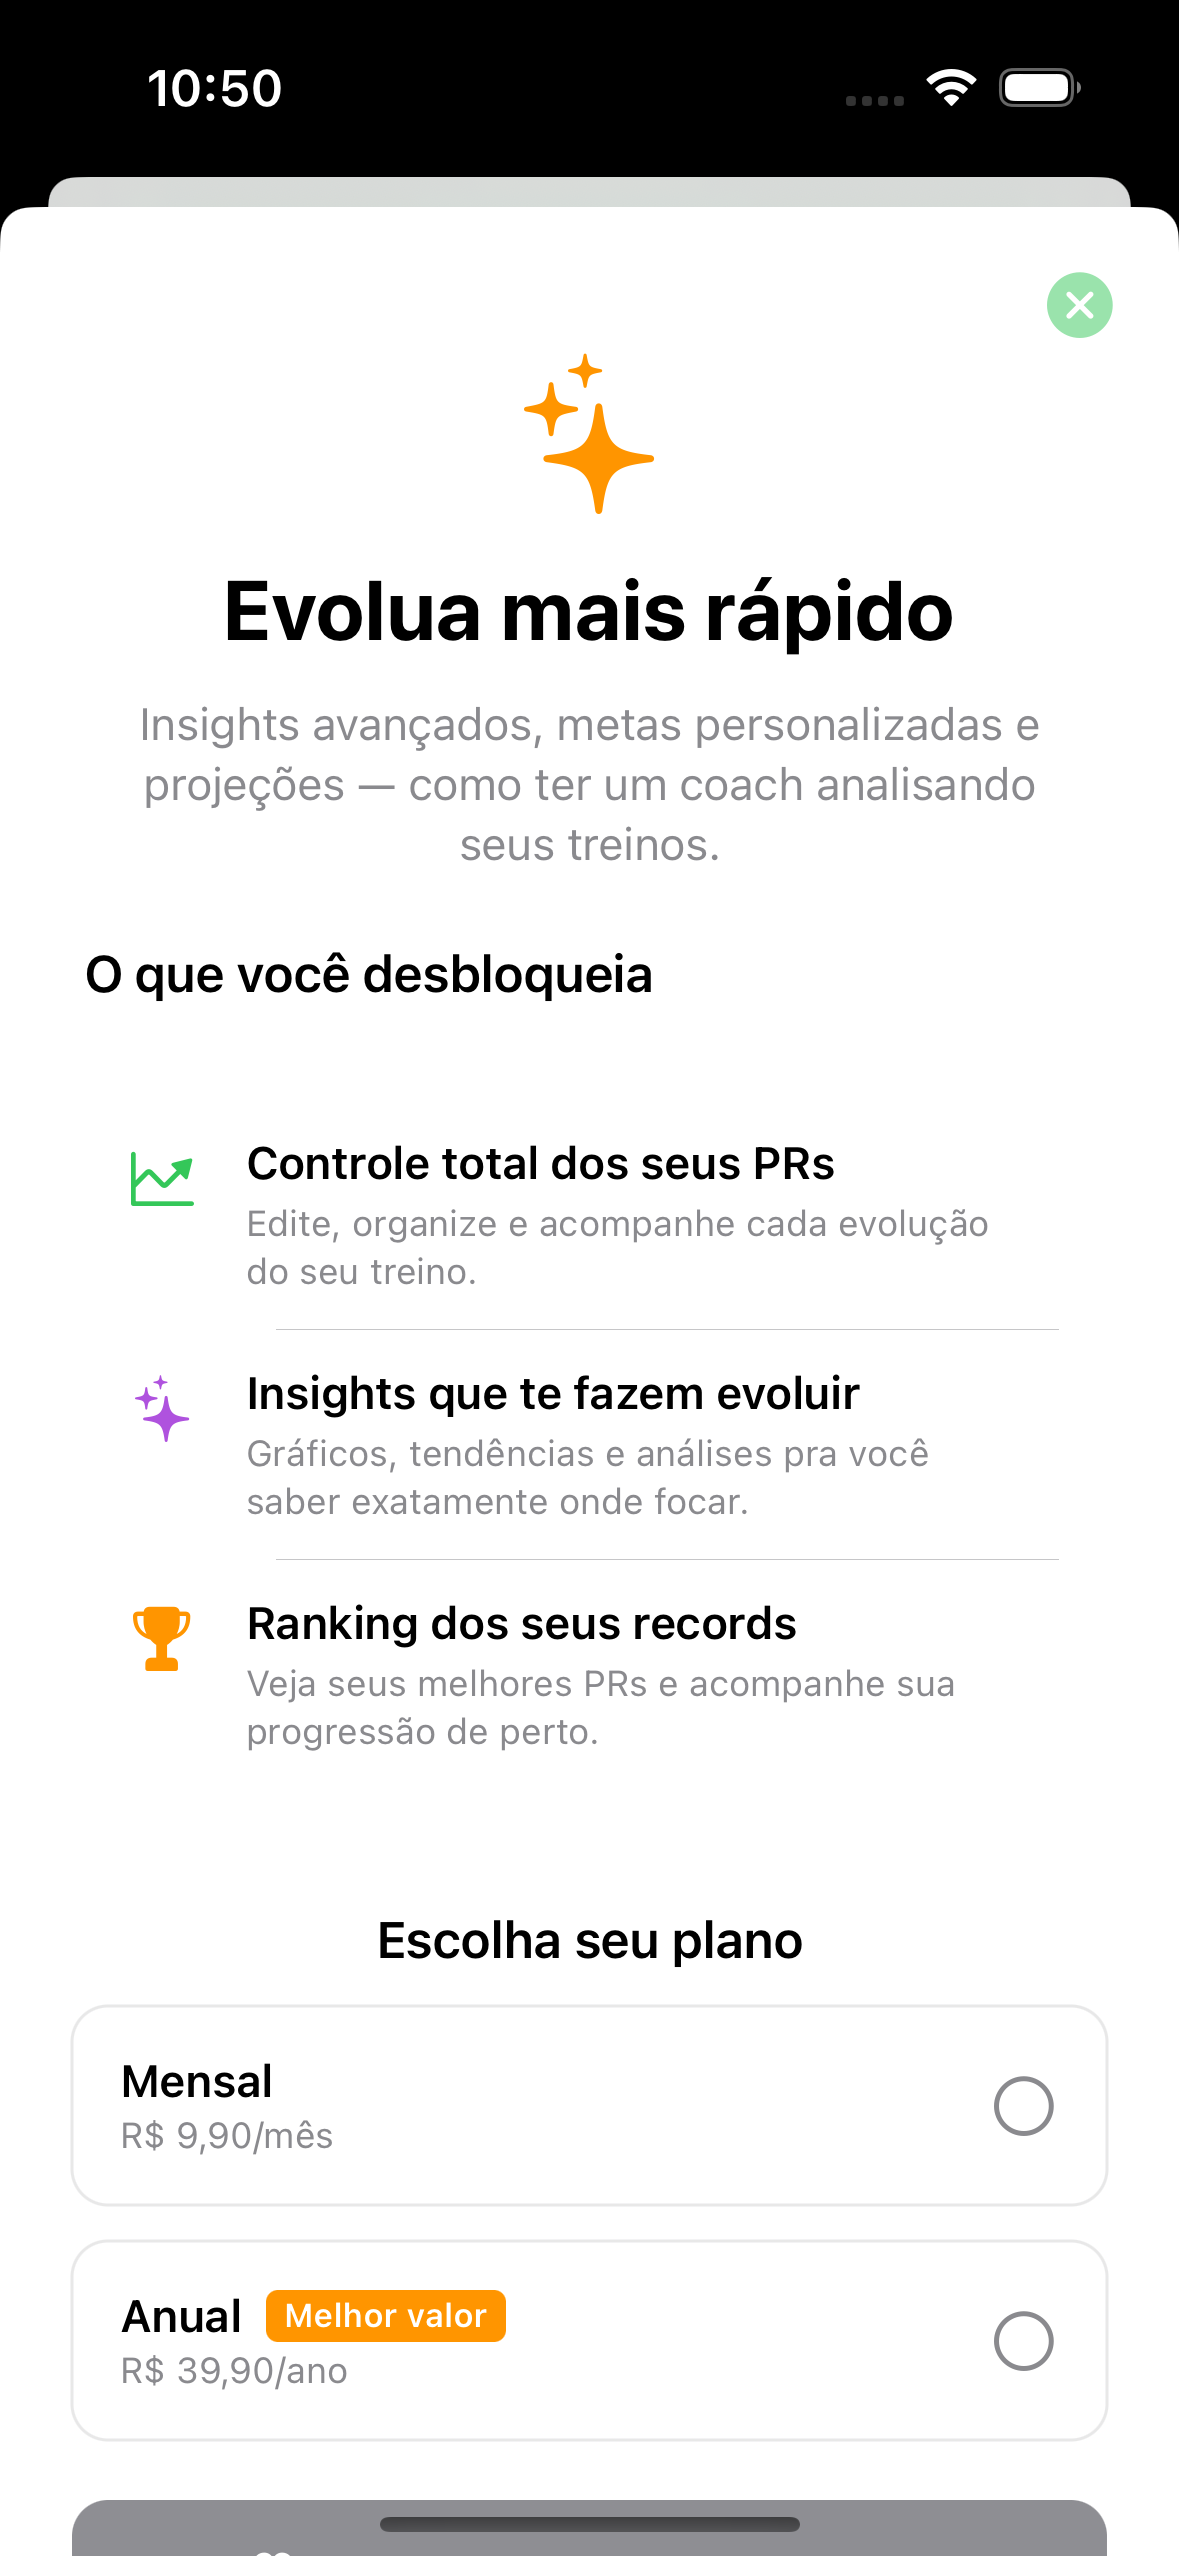
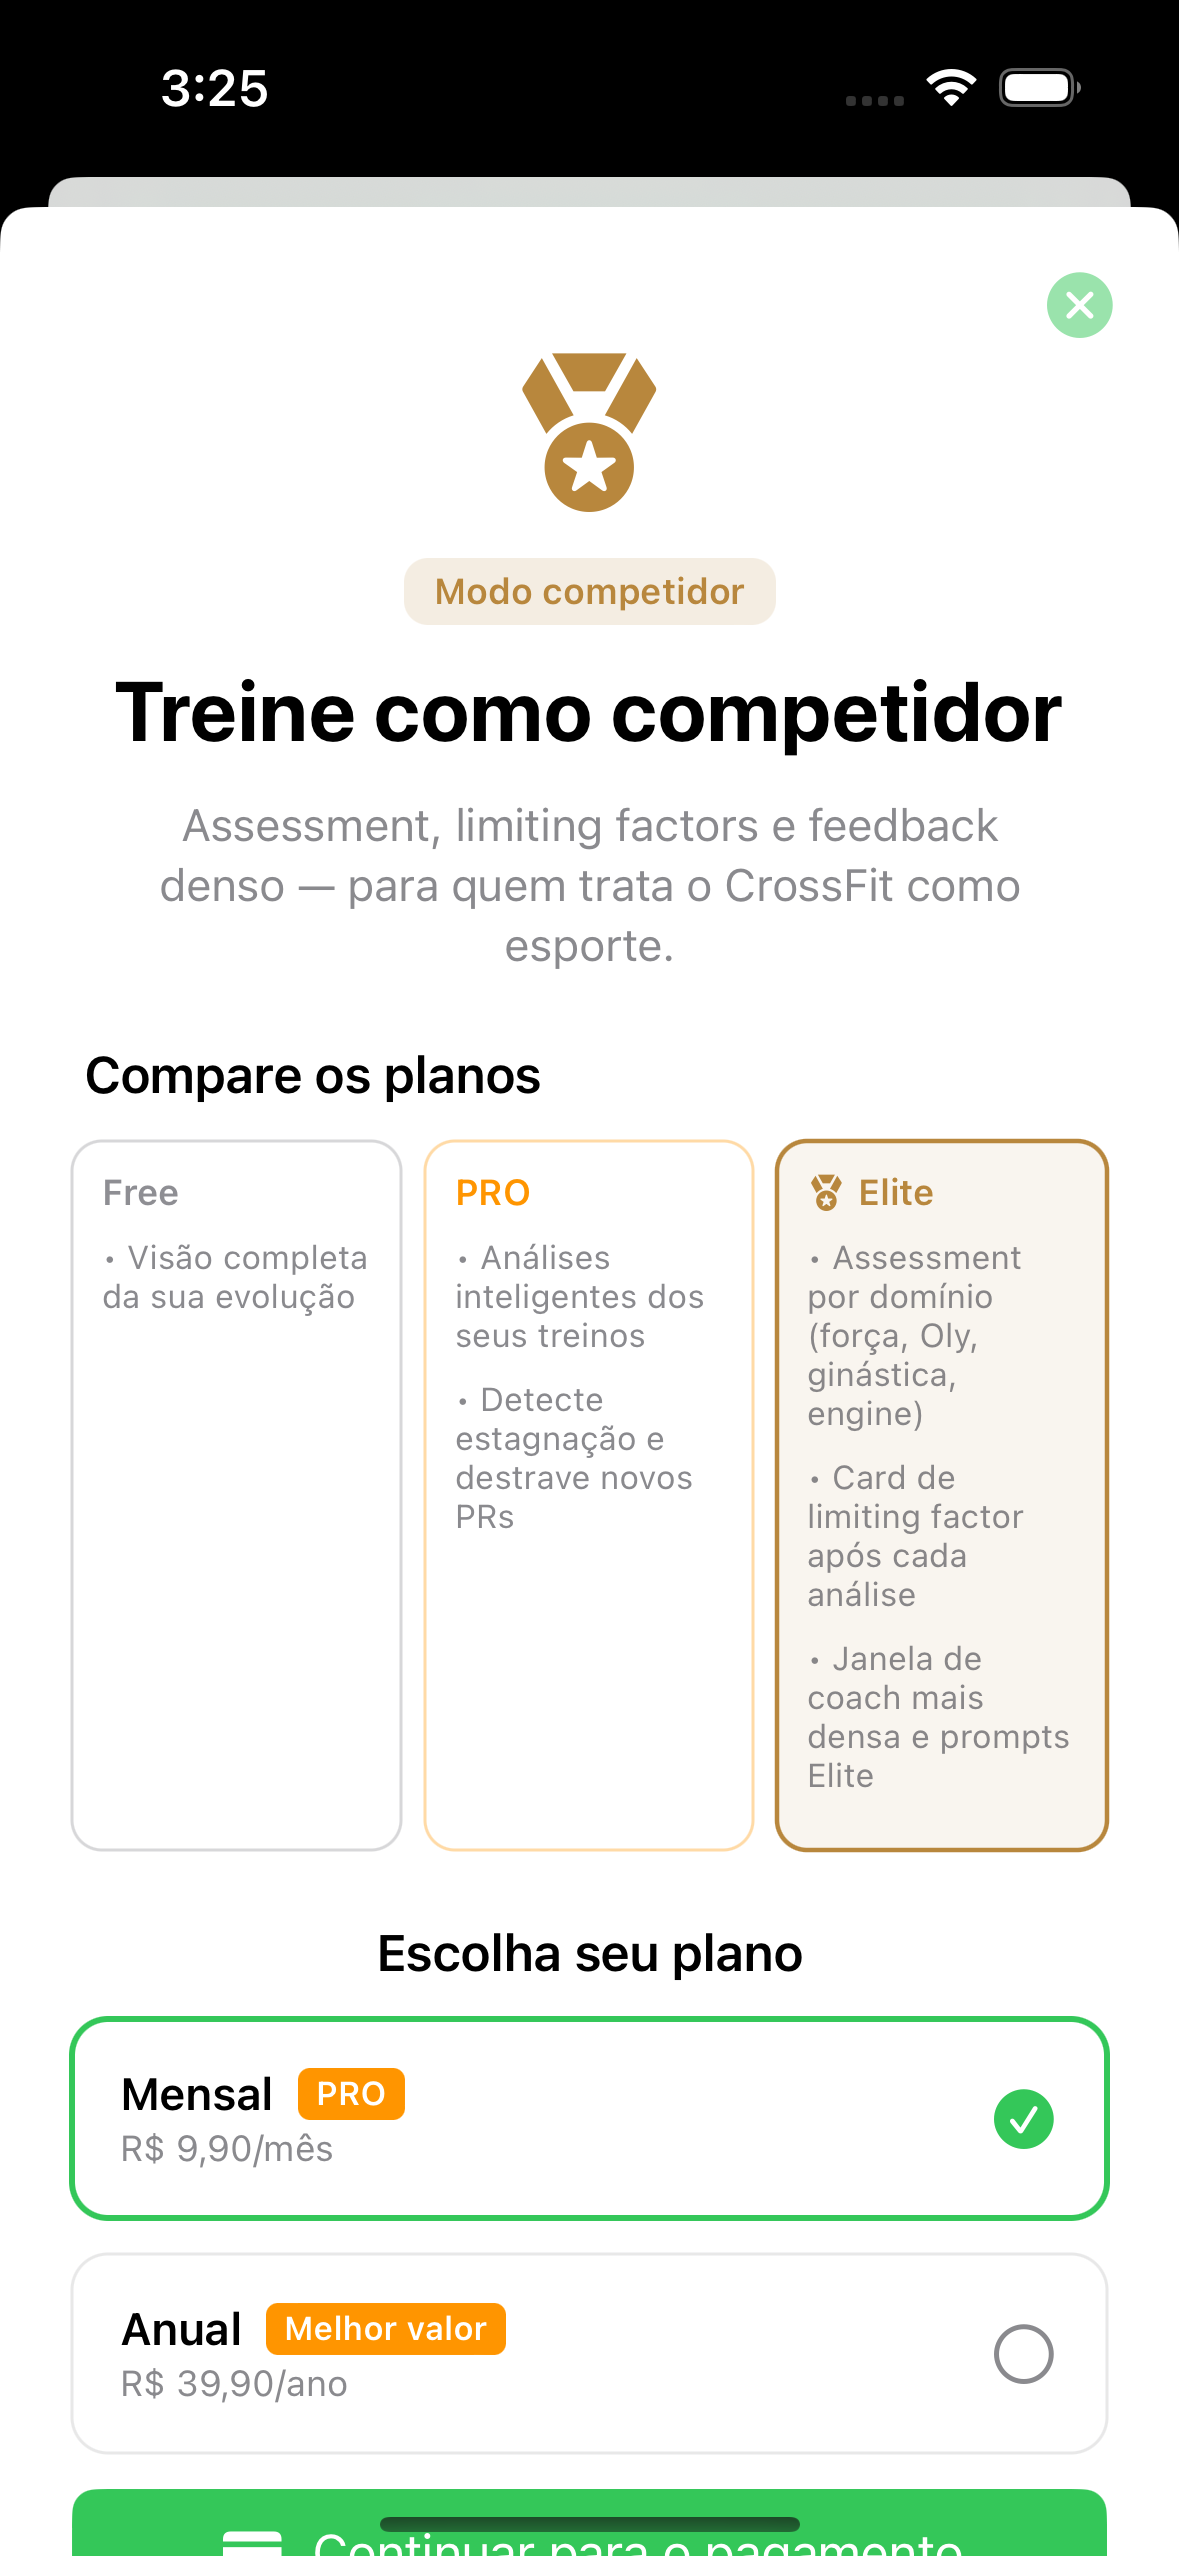
docs: roadmap/QA, mídia README e paywall Elite nos screenshots.
Ajusta ReadmeScreenshotsUITests ao paywall multi-plano; atualiza PNG/GIF.

diff --git a/CrossfitPRUITests/ReadmeScreenshotsUITests.swift b/CrossfitPRUITests/ReadmeScreenshotsUITests.swift
@@ -46,11 +46,13 @@ final class ReadmeScreenshotsUITests: XCTestCase {
         saveScreenshot(named: "insights-free")
 
         let proCTA = app.descendants(matching: .any).matching(identifier: "insights.teaser.pro.cta").firstMatch
-        XCTAssertTrue(proCTA.waitForExistence(timeout: 5))
+        XCTAssertTrue(proCTA.waitForExistence(timeout: 8))
         proCTA.tap()
 
-        let proTitle = app.staticTexts["Evolua mais rápido"]
-        XCTAssertTrue(proTitle.waitForExistence(timeout: 8))
+        let paywall = app.descendants(matching: .any).matching(identifier: "pro.upgrade.scroll").firstMatch
+        XCTAssertTrue(paywall.waitForExistence(timeout: 12), "Paywall PRO/Elite")
+        let headline = app.staticTexts["Treine como competidor"]
+        _ = headline.waitForExistence(timeout: 5)
         saveScreenshot(named: "pro-upgrade")
 
         dismissPROSheet(app)
@@ -98,8 +100,8 @@ final class ReadmeScreenshotsUITests: XCTestCase {
             closeCandidates.firstMatch.tap()
             return
         }
-        let iconClose = app.buttons.element(matching: NSPredicate(format: "identifier == 'pro.upgrade.close'"))
-        if iconClose.waitForExistence(timeout: 2) {
+        let iconClose = app.descendants(matching: .any).matching(identifier: "pro.upgrade.close").firstMatch
+        if iconClose.waitForExistence(timeout: 3) {
             iconClose.tap()
             return
         }

diff --git a/docs/PRODUCT-ROADMAP.md b/docs/PRODUCT-ROADMAP.md
@@ -34,11 +34,12 @@ Visão pública do que já está no app versus o que está **planejado** (SPDD `
 
 ## Próximos passos (dev)
 
-1. **CPR-007:** testar iOS 26+ on-device + `OPENAI_API_KEY` em device; revisar logs `Coaching` no Console.
-2. **Mídia README:** `./scripts/capture-readme-media-auto.sh` → commit PNG/GIF.
-3. **CPR-008:** UI/StoreKit Elite shipped no código → registrar produtos no App Store Connect + screenshots.
-4. **CPR-009:** story/analysis → POC watchOS.
-5. **Personas:** skill [`.cursor/skills/crossfit-athlete-personas`](../.cursor/skills/crossfit-athlete-personas/SKILL.md) · analysis [CPR-010](../spdd/analysis/CPR-010-crossfit-market-mayhem-personas.md).
+1. **CI:** confirmar verde em [`ios.yml`](.github/workflows/ios.yml) na `main` (rerun se fila macOS); gate local Xcode 15+: `./scripts/ci-modern.sh`.
+2. **CPR-007:** testar iOS 26+ on-device + `OPENAI_API_KEY` em device; revisar logs `Coaching` no Console.
+3. **Mídia README:** `./scripts/capture-readme-media-auto.sh` → commit PNG/GIF (incluir paywall Elite quando estável).
+4. **CPR-008:** código Elite no app → App Store Connect (produtos reais) + screenshots Design; prompts coach Elite dedicados (canvas Feat).
+5. **CPR-009:** canvas/story prontos → POC watchOS (`spdd/prompt/CPR-009-*`).
+6. **Personas:** skill [`.cursor/skills/crossfit-athlete-personas`](../.cursor/skills/crossfit-athlete-personas/SKILL.md) · [CPR-010](../spdd/analysis/CPR-010-crossfit-market-mayhem-personas.md).
 
 ## Como acompanhar
 

diff --git a/docs/QA.md b/docs/QA.md
@@ -26,7 +26,9 @@ Target `CrossfitPRUITests` → `AppLocalizationQATests`:
 | `UITEST_USE_STOREKIT` | `1` — StoreKit real + Products.storekit (manual) |
 | `OPENAI_API_KEY` | Só builds locais/prod manual — cloud coach; **nunca** no CI |
 
-Idioma: `-AppleLanguages (en)` ou `(pt-BR)` via `XCUIApplication.launchArguments`.
+Idioma: `-AppleLanguages (en)` ou `(pt-BR)` via `XCUIApplication.launchArguments` (e opcionalmente `AppleLanguages` / `AppleLocale` em `launchEnvironment`).
+
+**Wiring:** `AppEnvironment.make()` roda de forma **lazy** no primeiro render do app (`CrossfitPRApp`), para flags `UITEST_*` estarem visíveis no processo antes do composition root.
 
 **Accessibility IDs:** `tab.categories`, `tab.records`, `tab.insights`, `tab.settings`, `insights.teaser.pro.cta`, `insights.coach.section`, `pro.upgrade.close`, `pro.upgrade.scroll`, `pro.upgrade.continue.payment`, `pro.upgrade.restore`, `pro.upgrade.product.proMonthly`, `pro.upgrade.success.title`, `pro.upgrade.error.title`.
 
